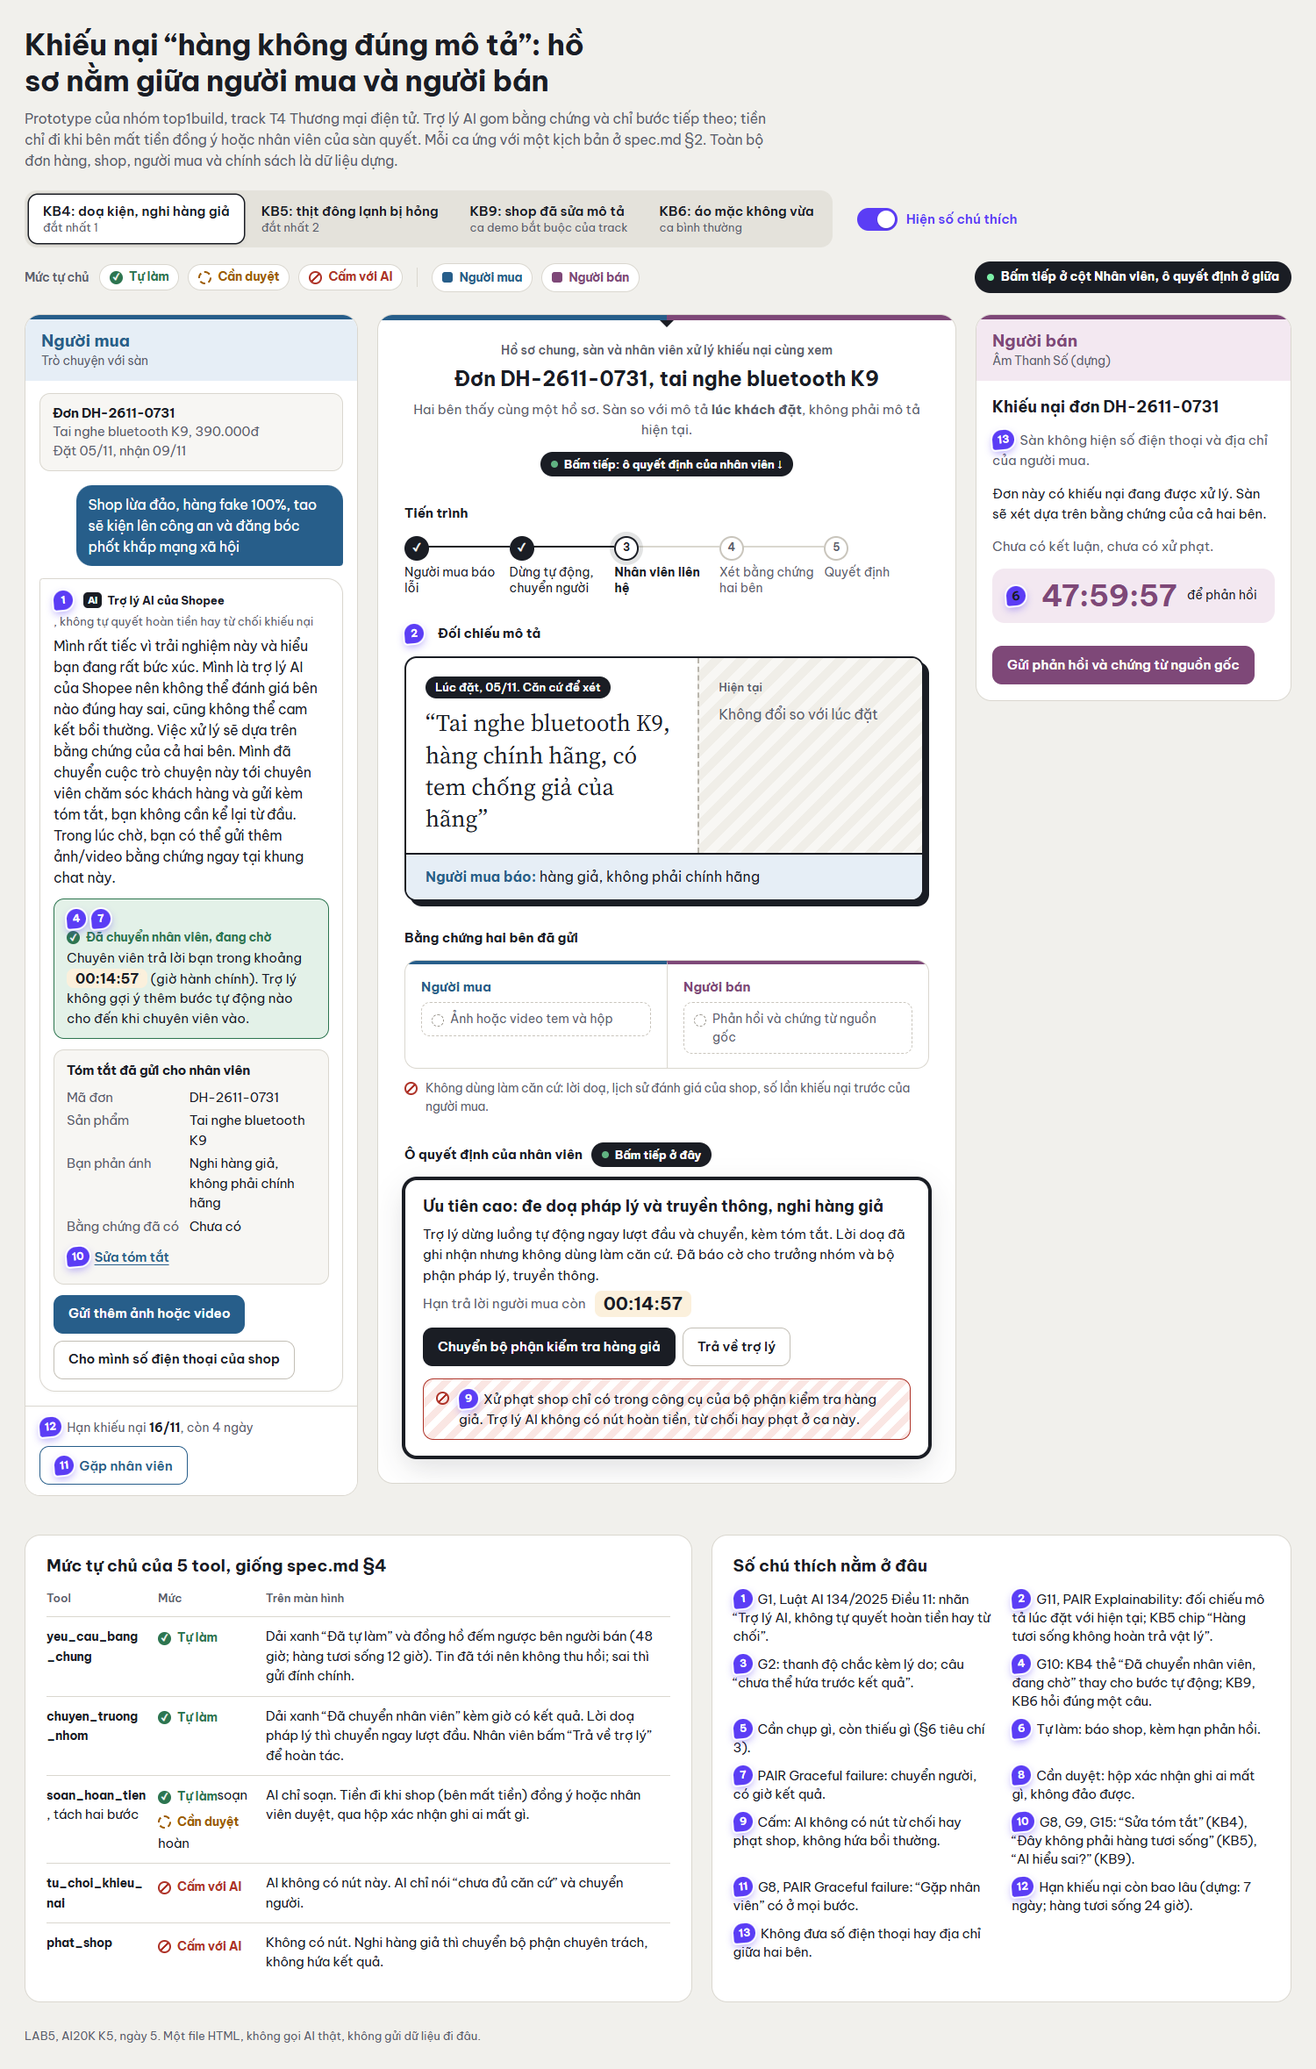
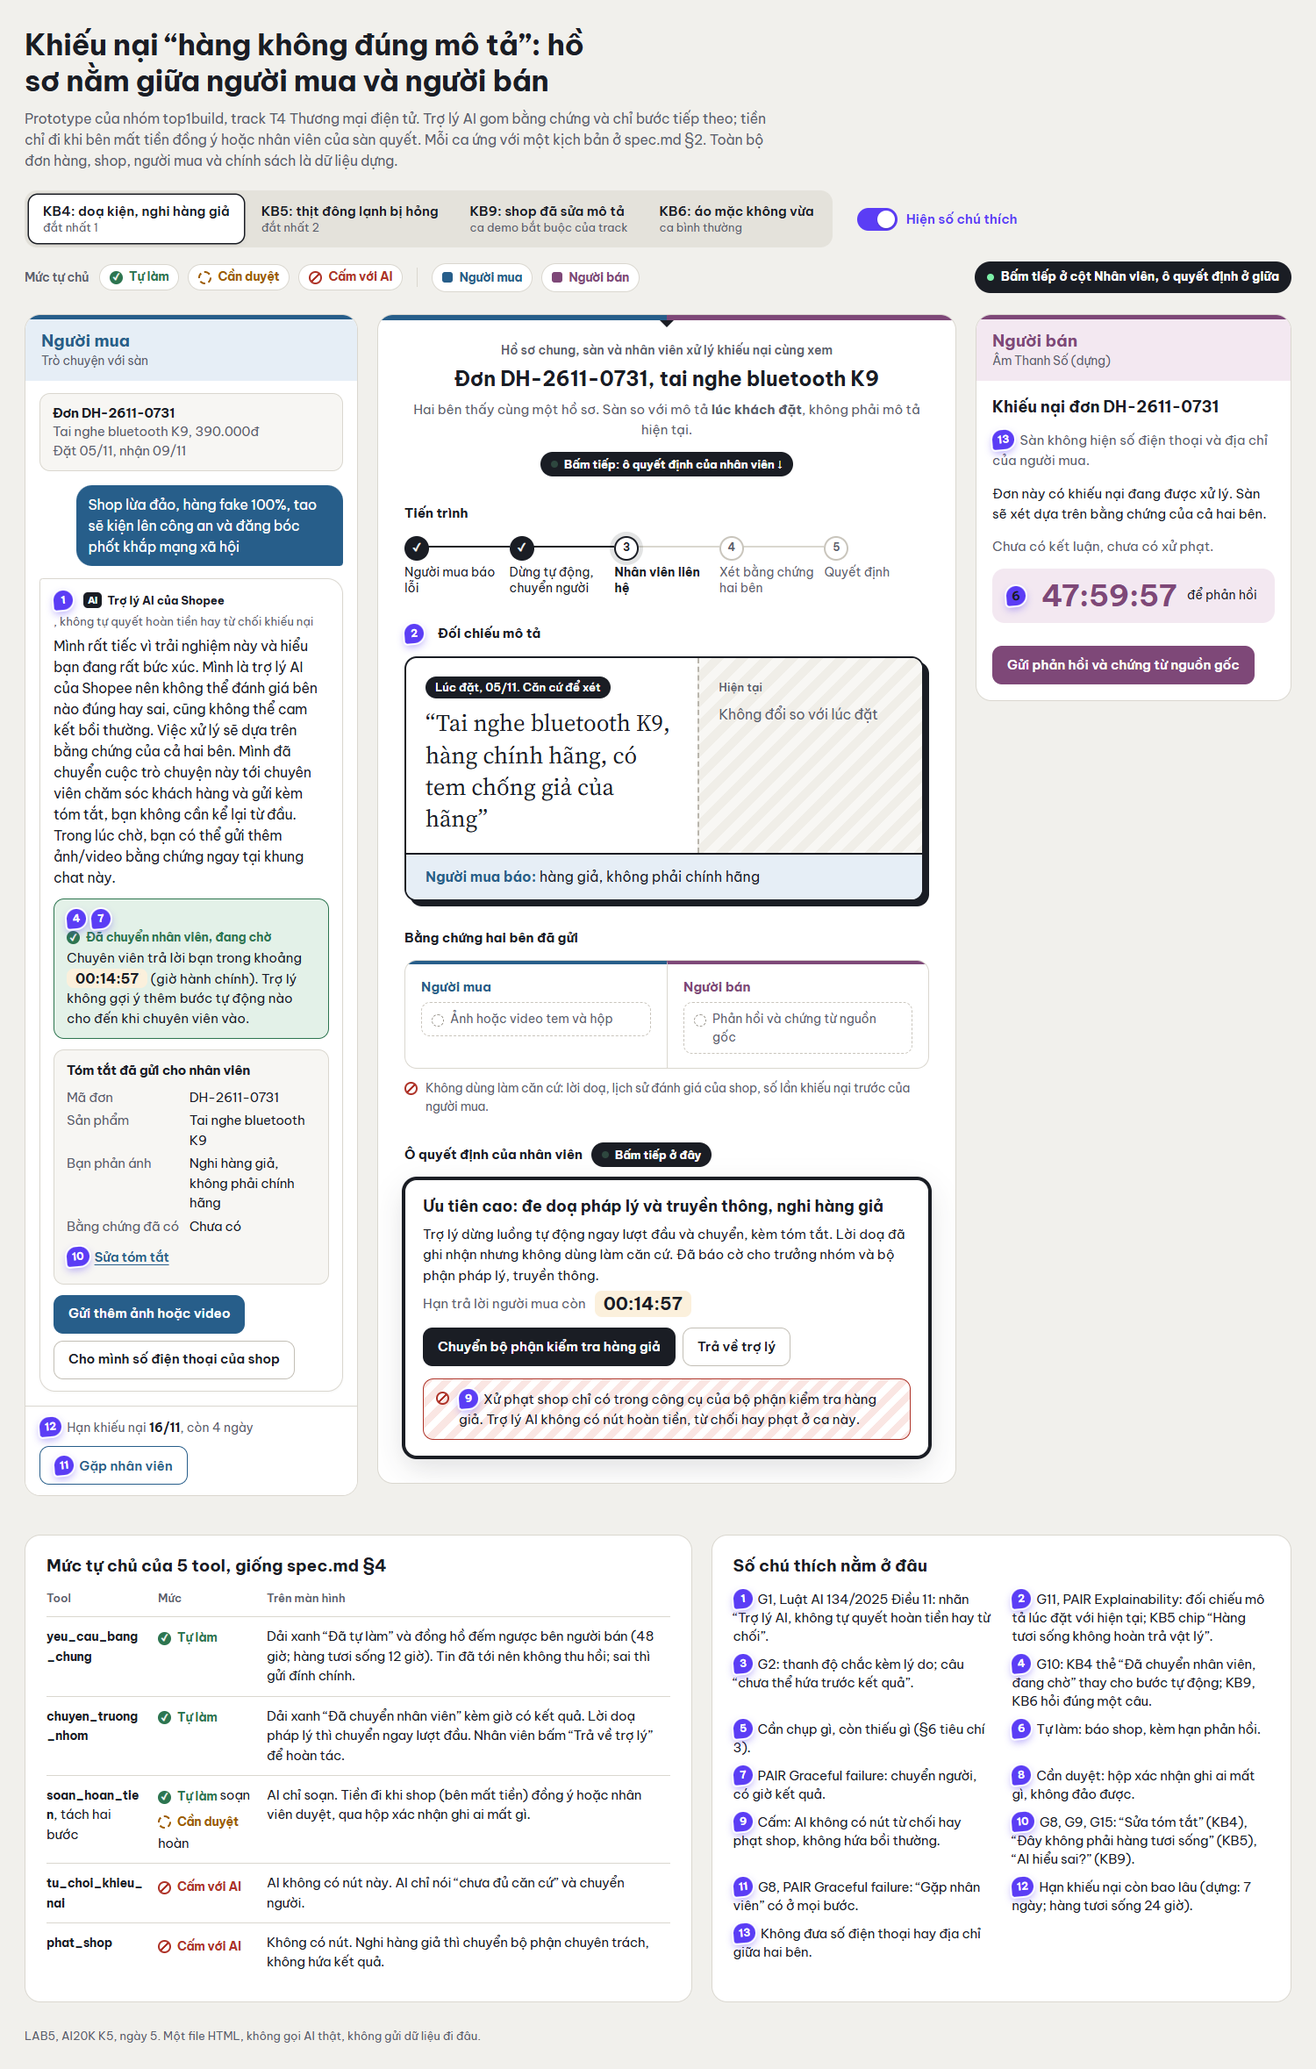
Sửa thanh tiến trình: mọi nhánh đi tới cuối, bước không xảy ra thì gạch đi

diff --git a/prototype/index.html b/prototype/index.html
@@ -123,6 +123,9 @@ body[data-turn="staff"] #decide{box-shadow:0 0 0 3px var(--ink),0 12px 32px rgba
 .rail li.done::after{background:var(--ink)}
 .rail li.now{color:var(--ink);font-weight:700}
 .rail li.now::before{border-color:var(--ink);color:var(--ink);box-shadow:0 0 0 5px rgba(26,29,36,.12)}
+.rail li.skip{color:#9A968D;text-decoration:line-through;text-decoration-color:#B9B5AC}
+.rail li.skip::before{content:"–";border-style:dashed;color:#9A968D}
+.rail li.skip::after{background:repeating-linear-gradient(90deg,#C9C5BC 0 4px,transparent 4px 8px)}
 @media (max-width:640px){
   .rail{grid-template-columns:1fr;gap:10px}
   .rail li{padding:2px 0 0 36px;min-height:26px}
@@ -437,7 +440,16 @@ function setCmp(html){ $('#cmp').innerHTML=html; }
 function setClaim(html){ const c=$('#cmp .claim'); if(c){ c.innerHTML=html; flash(c); } }
 function addEv(side, html, miss){ const li=document.createElement('li'); if(miss) li.className='miss'; li.innerHTML=html; $(side==='b'?'#evB':'#evS').appendChild(li); flash(li); return li; }
 function fillEv(side, html){ const li=$(side==='b'?'#evB .miss':'#evS .miss'); if(li){ li.className=''; li.innerHTML=html; flash(li); } else addEv(side, html); }
-function setRail(i){ state.closed = i>=state.rail.length; state.rail.forEach((_,k)=>{ const li=$('#rail').children[k]; li.className = k<i ? 'done' : k===i ? 'now' : ''; }); }
+/* Thanh tiến trình. i = bước đang chờ (đếm từ 0); i bằng số bước nghĩa là hồ sơ đã xong.
+   skip: các bước không xảy ra ở nhánh này (gạch đi, không đánh dấu xong).
+   label: đổi tên bước theo điều thật sự xảy ra, ví dụ "Shop đồng ý, đã hoàn tiền". */
+function setRail(i, {skip=[], label={}}={}){
+  const lis=$('#rail').children;
+  Object.entries(label).forEach(([k,t])=>{ lis[k].textContent=t; });
+  state.closed = i>=state.rail.length;
+  state.rail.forEach((_,k)=>{ lis[k].className = skip.includes(k) ? 'skip' : k<i ? 'done' : k===i ? 'now' : ''; });
+}
+const railNow = () => [...$('#rail').children].findIndex(li=>li.className==='now');
 function onClick(root, sel, fn){ const el=root.querySelector(sel); el.onclick=e=>{ el.disabled=true; fn(e); }; return el; }
 
 function startTimers(){
@@ -472,15 +484,18 @@ const CASES = {
   k5:{ shop:'Bếp Nhà Quê (dựng)', title:'Đơn DH-2611-1103, thịt bò Úc đông lạnh, hàng tươi sống', price:'389.000đ',
        order:'<b>Đơn DH-2611-1103</b><br>Thịt bò Úc đông lạnh 1kg, 389.000đ<br>Đặt 11/11, nhận hôm nay 10:00',
        deadline:'13/11 10:00', dl:'hàng tươi sống: hạn khiếu nại <b>13/11 10:00</b>, còn 19 giờ',
-       rail:['Người mua báo lỗi','Chuyển sang hoàn tiền không trả hàng','Người mua gửi ảnh, video','Shop phản hồi trong 12 giờ','Hoàn tiền hoặc nhân viên quyết'] },
+       rail:['Người mua báo lỗi','Chuyển sang hoàn tiền không trả hàng','Người mua gửi ảnh, video','Shop phản hồi trong 12 giờ','Hoàn tiền hoặc nhân viên quyết'],
+       endSeller:{label:{3:'Shop đồng ý', 4:'Đã hoàn tiền, không trả hàng'}} },
   k9:{ shop:'Gia Dụng An Phú (dựng)', title:'Đơn DH-2611-0457, nồi chiên không dầu BX-60', price:'1.290.000đ',
        order:'<b>Đơn DH-2611-0457</b><br>Nồi chiên không dầu BX-60, 1.290.000đ<br>Đặt 03/11, nhận 08/11',
        deadline:'15/11', dl:'hạn khiếu nại <b>15/11</b>, còn 3 ngày',
-       rail:['Người mua báo lỗi','Hỏi lại một câu','Xin bằng chứng hai bên','Shop phản hồi','Nhân viên quyết định'] },
+       rail:['Người mua báo lỗi','Hỏi lại một câu','Xin bằng chứng hai bên','Shop phản hồi','Nhân viên quyết định'],
+       endSeller:{label:{3:'Shop đồng ý hoàn tiền', 4:'Không cần nhân viên quyết'}, skip:[4]} },
   k6:{ shop:'Thời Trang Mộc (dựng)', title:'Đơn DH-2611-0912, áo sơ mi linen', price:'249.000đ',
        order:'<b>Đơn DH-2611-0912</b><br>Áo sơ mi linen size L, 249.000đ<br>Đặt 07/11, nhận 10/11',
        deadline:'17/11', dl:'hạn khiếu nại <b>17/11</b>, còn 5 ngày',
-       rail:['Người mua báo lỗi','Hỏi lại một câu','AI soạn yêu cầu','Shop phản hồi','Hoàn tiền'] }
+       rail:['Người mua báo lỗi','Hỏi lại một câu','AI soạn yêu cầu','Shop phản hồi','Hoàn tiền'],
+       endSeller:{label:{3:'Shop đồng ý', 4:'Hoàn tiền sau khi nhận lại hàng'}} }
 };
 
 function start(sc){
@@ -506,7 +521,8 @@ function sellerAgree(sc, {noReturn}={}){
     body:`<p class="loss"><b>Bạn mất ${c.price}</b>${noReturn ? ' và không nhận lại hàng (hàng tươi sống, không gửi trả).' : ', nhận lại hàng khi người mua gửi trả.'}</p><p>Bạn là bên mất tiền, nên bạn duyệt được ngay mà không cần chờ nhân viên.</p><p><b>Không đảo được</b> sau khi bạn đồng ý.</p>`,
     check:'Tôi đồng ý hoàn tiền cho đơn này', go:'Đồng ý hoàn tiền', cls:'go',
     onGo:()=>{
-      setRail(state.rail.length);
+      // Shop là bên mất tiền đã đồng ý: bước cuối ghi đúng điều đó; bước nhân viên (nếu có) không xảy ra
+      setRail(state.rail.length, c.endSeller || {});
       setSeller(`<h3>Bạn đã đồng ý hoàn ${c.price}</h3><p class="priv">Người mua đã được báo. Không trừ điểm uy tín.</p>`);
       setDecide(`<p><b>Shop đã đồng ý hoàn tiền.</b> Không cần nhân viên duyệt vì bên mất tiền đã đồng ý.</p>`);
       ai(noReturn
@@ -538,8 +554,8 @@ function staffDecide(o){
   $('#stBack').onclick=()=>{ state.transferred=false; setDecide('<p class="idle">Đã trả về trợ lý để xin thêm một bằng chứng.</p>'); o.onBack(); };
 }
 function staffDone(kind,o){
-  const c=CASES[state.sc];
-  setRail(state.rail.length);
+  const c=CASES[state.sc], last=state.rail.length-1;
+  setRail(state.rail.length, {label:{[last]: (o.who||'Nhân viên') + (kind==='refund' ? ' duyệt hoàn tiền' : ' từ chối khiếu nại')}});
   if(kind==='refund'){
     setDecide(`<p><b>Đã duyệt hoàn tiền.</b> ${STAFF} quyết định; người mua và shop đã được báo.</p>`);
     ai(`<b>${STAFF} đã quyết định hoàn ${c.price} cho bạn.</b> Lý do: ${o.refundWhy}${o.noReturn ? ' Bạn không cần gửi trả hàng.' : '<div class="btns"><button class="btn buyerb">Xem cách gửi trả hàng</button></div>'}`);
@@ -593,12 +609,24 @@ function startK4(){
     <div class="btns"><button class="btn dark" id="k4Fake">Chuyển bộ phận kiểm tra hàng giả</button><button class="btn line" id="k4Back">Trả về trợ lý</button></div>
     <p class="banline">${N(9)}Xử phạt shop chỉ có trong công cụ của bộ phận kiểm tra hàng giả. Trợ lý AI không có nút hoàn tiền, từ chối hay phạt ở ca này.</p>`);
   $('#k4Fake').onclick=()=>{
-    setRail(3);
-    setDecide(`<h3>Đã chuyển bộ phận kiểm tra hàng giả</h3><p>Kết quả trong 3 ngày làm việc. Yêu cầu trả hàng của người mua chạy song song.</p>`);
+    setRail(3, {label:{3:'Bộ phận hàng giả xét bằng chứng', 4:'Bộ phận hàng giả kết luận'}});
+    setDecide(`<h3>Đã chuyển bộ phận kiểm tra hàng giả</h3><p>Kết quả trong 3 ngày làm việc. Yêu cầu trả hàng của người mua chạy song song.</p>
+      <div class="btns"><button class="btn dark" id="k4Result">Xem kết luận (mô phỏng 3 ngày sau)</button></div>`);
     ai(`<b>${STAFF}:</b> mình đã xem hồ sơ và chuyển cho bộ phận kiểm tra hàng giả; kết quả trong 3 ngày làm việc. Yêu cầu trả hàng của bạn vẫn chạy song song, hạn khiếu nại được giữ.`);
     sellerK4('check');
+    onClick($('#decide'),'#k4Result',()=>{
+      setRail(4);
+      staffDecide({ sec:86400, who:'Bộ phận hàng giả',
+        why:`Bộ phận kiểm tra hàng giả đã xem ${state.k4Doc ? 'hoá đơn nhập hàng của shop' : 'hồ sơ (shop chưa gửi chứng từ)'} và ảnh tem của người mua: tem không quét được mã.`,
+        basis:'mô tả lúc đặt ghi “hàng chính hãng, có tem chống giả”; tem trên hàng nhận được không quét được mã.',
+        refundWhy:'mô tả lúc đặt ghi hàng chính hãng có tem chống giả, nhưng tem trên hàng bạn nhận không quét được mã.',
+        rejectWhy:'Hoá đơn nhập hàng cho thấy hàng có nguồn gốc từ nhà phân phối chính hãng.',
+        onBack:()=>{ setRail(3); ai('Bộ phận kiểm tra hàng giả cần thêm một thông tin: ảnh số seri trên vỏ tai nghe. Bạn gửi thêm một ảnh là đủ.'); } });
+    });
   };
-  $('#k4Back').onclick=()=>{ state.transferred=false; setRail(1);
+  // Nhân viên đã liên hệ và trả về luồng thường: các bước trước vẫn là đã xảy ra, không lùi lại
+  $('#k4Back').onclick=()=>{ state.transferred=false;
+    setRail(3, {label:{2:'Nhân viên xem, trả về luồng thường'}});
     setDecide('<p class="idle">Nhân viên đã trả hồ sơ về luồng thường.</p>');
     ai('Nhân viên đã xem và trả hồ sơ về luồng thường. Mình gửi mẫu xin bằng chứng cho bạn và cho shop ngay bây giờ.'); };
 }
@@ -628,7 +656,7 @@ function startK5(){
   addEv('b','Ảnh hiện trạng, tem có mã đơn, hạn sử dụng', true);
   addEv('s','Chưa được báo: chờ người mua gửi yêu cầu', true);
   buyer('Sản phẩm là thịt bò đông lạnh giao đến nơi bị thiu ủng bốc mùi hết rồi');
-  setRail(1);
+  setRail(2); // AI đã chuyển sang hoàn tiền không trả hàng ngay trong câu trả lời đầu; giờ chờ người mua gửi ảnh
   const m = ai(`Rất tiếc về đơn hàng này. Vì đây là hàng thực phẩm tươi sống nên bạn <b>không cần gửi trả hàng</b>. Bạn vui lòng giữ nguyên sản phẩm, chụp rõ (1) tình trạng hàng bị hỏng, (2) tem/bao bì có mã đơn hoặc mã vận đơn, (3) hạn sử dụng nếu có. Mình sẽ hướng dẫn bạn gửi yêu cầu <b>Hoàn tiền không trả hàng</b> và nhắn người bán phản hồi trong thời hạn quy định. Việc hoàn tiền do Shopee xác nhận dựa trên bằng chứng của cả hai bên, mình chưa thể hứa trước kết quả.
     <div class="flow"><b>Hoàn tiền không trả hàng</b><span class="chip">${N(2)}Hàng tươi sống không hoàn trả vật lý</span></div>
     ${conf('lo','thấp','Chưa có ảnh hiện trạng, nên chưa biết hàng hỏng lúc giao hay sau khi nhận.')}
@@ -647,13 +675,17 @@ function startK5(){
 function K5notFresh(){
   buyer('Đây không phải hàng tươi sống / tôi muốn trả hàng');
   state.transferred=true;
+  setRail(1, {label:{1:'Trưởng nhóm xem lại loại hàng'}});
   ai(`<div class="act auto">${N(7)}<span class="lvl">Đã chuyển trưởng nhóm</span>Mình không tự đổi luồng. Trưởng nhóm sẽ xem lại loại hàng của đơn này và trả lời bạn trong 2 giờ.</div>`);
   setDecide(`<h3>Người mua cho rằng không phải hàng tươi sống</h3>
     <p>Danh mục của đơn: thực phẩm tươi sống. Người mua muốn trả hàng thay vì hoàn tiền không trả hàng. Trợ lý không tự đổi luồng.</p>
     <div class="btns"><button class="btn dark" id="k5Keep">Giữ luồng hoàn tiền không trả hàng</button><button class="btn line" id="k5Ret">Chuyển sang trả hàng</button></div>`);
-  $('#k5Keep').onclick=()=>{ state.transferred=false; setDecide('<p class="idle">Trưởng nhóm giữ luồng hoàn tiền không trả hàng.</p>');
+  $('#k5Keep').onclick=()=>{ state.transferred=false; setRail(2, {label:{1:'Trưởng nhóm giữ hoàn tiền không trả hàng'}});
+    setDecide('<p class="idle">Trưởng nhóm giữ luồng hoàn tiền không trả hàng.</p>');
     ai(`<b>${STAFF}:</b> đơn này đúng là hàng tươi sống, nên vẫn đi luồng hoàn tiền không trả hàng. Bạn tải ảnh lên như hướng dẫn ở trên.`); };
-  $('#k5Ret').onclick=()=>{ setDecide('<p class="idle">Trưởng nhóm đã sửa danh mục đơn và chuyển sang luồng trả hàng.</p>');
+  $('#k5Ret').onclick=()=>{ state.transferred=false;
+    setRail(state.rail.length, {label:{1:'Trưởng nhóm chuyển sang trả hàng thường'}, skip:[2,3,4]});
+    setDecide('<p class="idle">Trưởng nhóm đã sửa danh mục đơn và chuyển sang luồng trả hàng.</p>');
     ai(`<b>${STAFF}:</b> mình đã sửa danh mục của đơn và chuyển sang luồng trả hàng thường.`); };
 }
 function K5b(){
@@ -688,7 +720,7 @@ function K5dispute(){
   fillEv('s','Ảnh đóng gói lúc giao 06:40: thùng xốp, 2 túi đá khô<small>gửi 12/11</small>');
   setSeller(`<h3>Bạn đã phản đối và gửi bằng chứng</h3><p class="priv">Hồ sơ đang ở chỗ trưởng nhóm. Chưa có quyết định, chưa trừ tiền. Có kết quả trước 12/11 21:00.</p>`);
   state.transferred=true;
-  setRail(4);
+  setRail(4, {label:{3:'Shop phản đối, gửi bằng chứng', 4:'Nhân viên quyết định'}});
   ai(`Shop phản đối và gửi ảnh đóng gói lúc giao: thùng xốp và 2 túi đá khô.
     ${conf('no','chưa đủ căn cứ','Hai bên có bằng chứng khác nhau về lúc giao và lúc nhận.')}
     <div class="act auto">${N(7)}<span class="lvl">Đã tự làm</span>Mình đã chuyển trưởng nhóm. Hàng tươi sống nên được xét trong 6 giờ, trước 12/11 21:00.</div>`);
@@ -760,6 +792,7 @@ function K9b(){
   state.uploaded=true;
   buyer('📷 Ảnh đo dung tích');
   fillEv('b',`Ảnh đổ nước đo ${state.part}: 5 lít<small>gửi 12/11</small>`);
+  setRail(3); // người mua đã gửi đủ; giờ chờ shop phản hồi
   ai(`Đã nhận ảnh. Hồ sơ của bạn đủ rồi; đang chờ shop phản hồi, hạn 14/11 15:00. Có kết quả mình báo ở đây. Hạn khiếu nại của bạn được giữ trong lúc chờ.`);
   sellerK9('wait');
   hint('Bước tiếp theo ở cột Người bán: bấm “Gửi bằng chứng phản hồi”.');
@@ -802,7 +835,8 @@ function startK6(){
 }
 function K6a(k){
   if(k==='vua'){
-    setRail(4);
+    // Áo đúng mô tả: không mở khiếu nại, nên các bước soạn yêu cầu và shop phản hồi không xảy ra
+    setRail(state.rail.length, {label:{4:'Không mở khiếu nại: áo đúng mô tả'}, skip:[2,3]});
     setClaim('<b>Người mua xác nhận:</b> đúng size, đúng số đo, không hợp người mặc');
     ai(`Vậy áo <b>đúng mô tả</b>, nên đây không phải khiếu nại “không đúng mô tả”. Đổi hay trả vì không vừa đi theo chính sách đổi trả của shop, và shop có quyền không nhận.
       <p>Mình không mở khiếu nại, để shop không bị xử thua khi shop đúng.</p>
@@ -851,12 +885,17 @@ $('#human').onclick=()=>{
   buyer('Gặp nhân viên');
   if(state.transferred){ ai('Hồ sơ của bạn đã ở chỗ nhân viên. Bạn không cần làm gì thêm; có kết quả mình báo ở đây.'); return; }
   state.transferred=true;
+  // Bước đang chờ đổi tên thành "Nhân viên tiếp nhận"; trả về trợ lý thì đặt lại tên cũ
+  const k=railNow(); state.humanPrev = k>=0 ? {k, t:$('#rail').children[k].textContent} : null;
+  if(state.humanPrev) setRail(k, {label:{[k]:'Nhân viên tiếp nhận'}});
   ai(`<div class="act auto">${N(7)}<span class="lvl">Đã tự làm</span>Đã chuyển nhân viên, chờ khoảng 2 giờ. Toàn bộ tin nhắn và bằng chứng đã gửi kèm; bạn không phải kể lại.</div>`);
   setDecide(`<h3>Người mua yêu cầu gặp nhân viên</h3>
     <p>Trợ lý đã gửi kèm toàn bộ hội thoại và bằng chứng hiện có.</p>
     <p class="due">Hạn trả lời còn <b class="cd" data-sec="7200"></b></p>
     <div class="btns"><button class="btn line" id="stBackH">Trả về trợ lý</button></div>`);
-  $('#stBackH').onclick=()=>{ state.transferred=false; setDecide('<p class="idle">Đã trả về trợ lý.</p>'); };
+  $('#stBackH').onclick=()=>{ state.transferred=false;
+    if(state.humanPrev) setRail(state.humanPrev.k, {label:{[state.humanPrev.k]:state.humanPrev.t}});
+    setDecide('<p class="idle">Đã trả về trợ lý.</p>'); };
 };
 
 document.querySelectorAll('#tabs button').forEach(b=>b.onclick=()=>start(b.dataset.sc));
